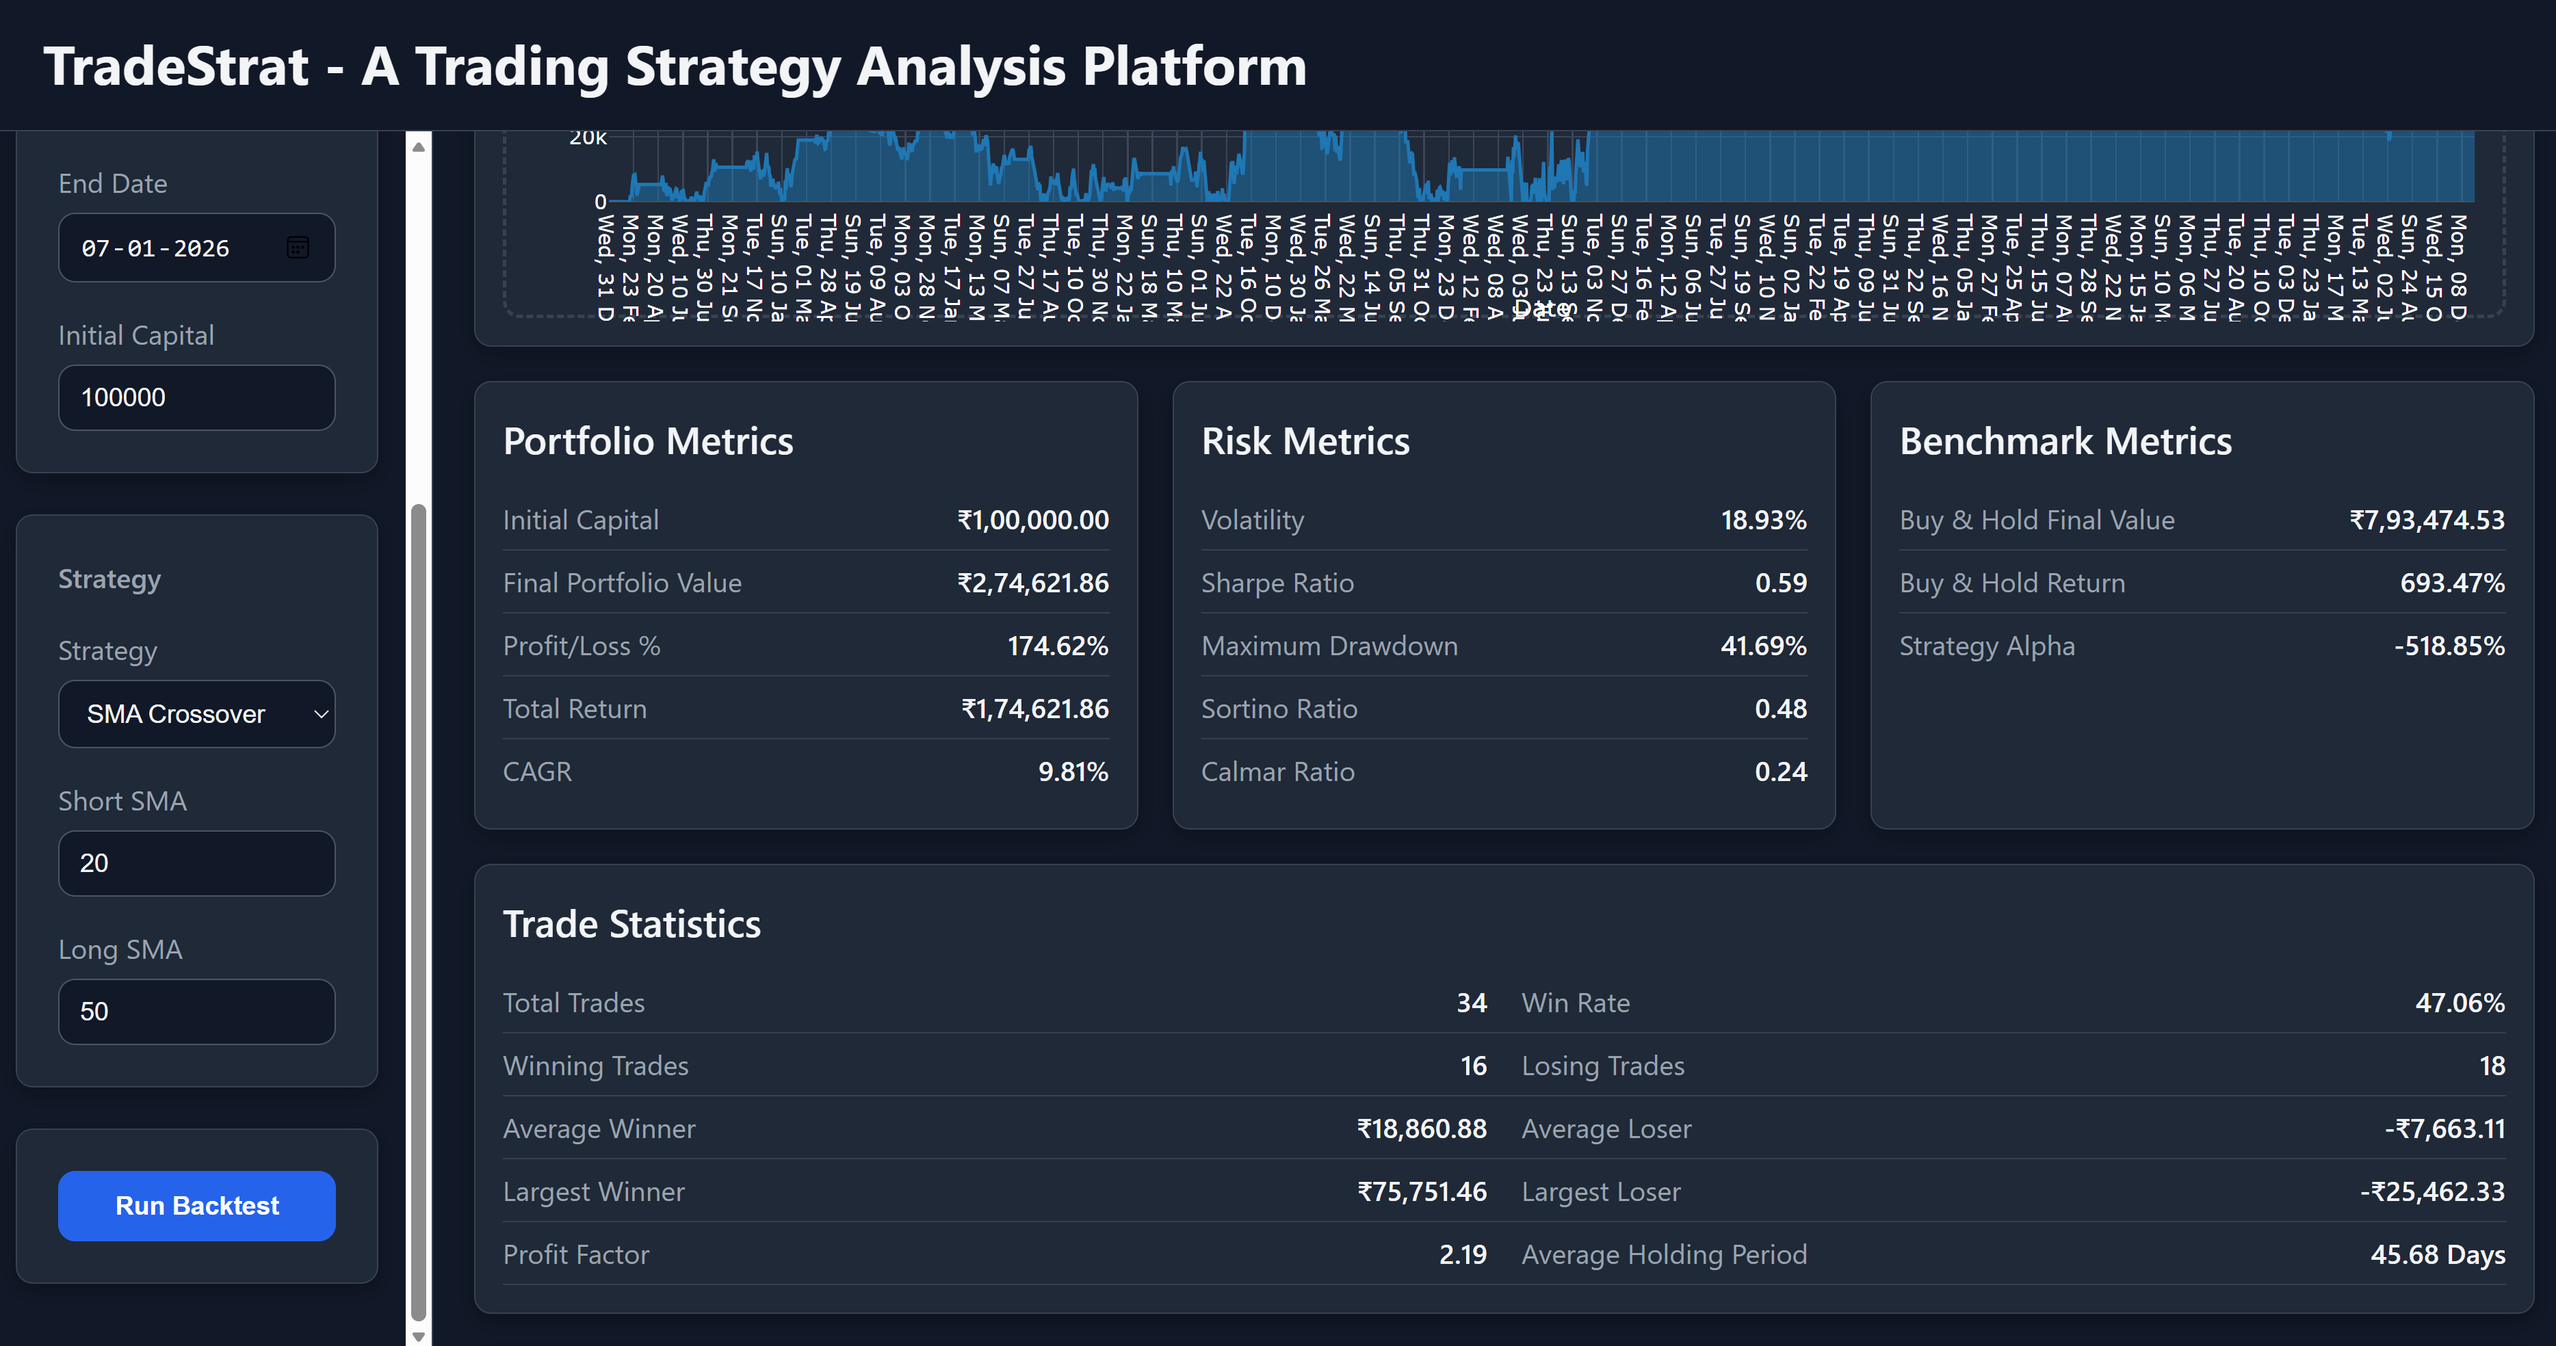
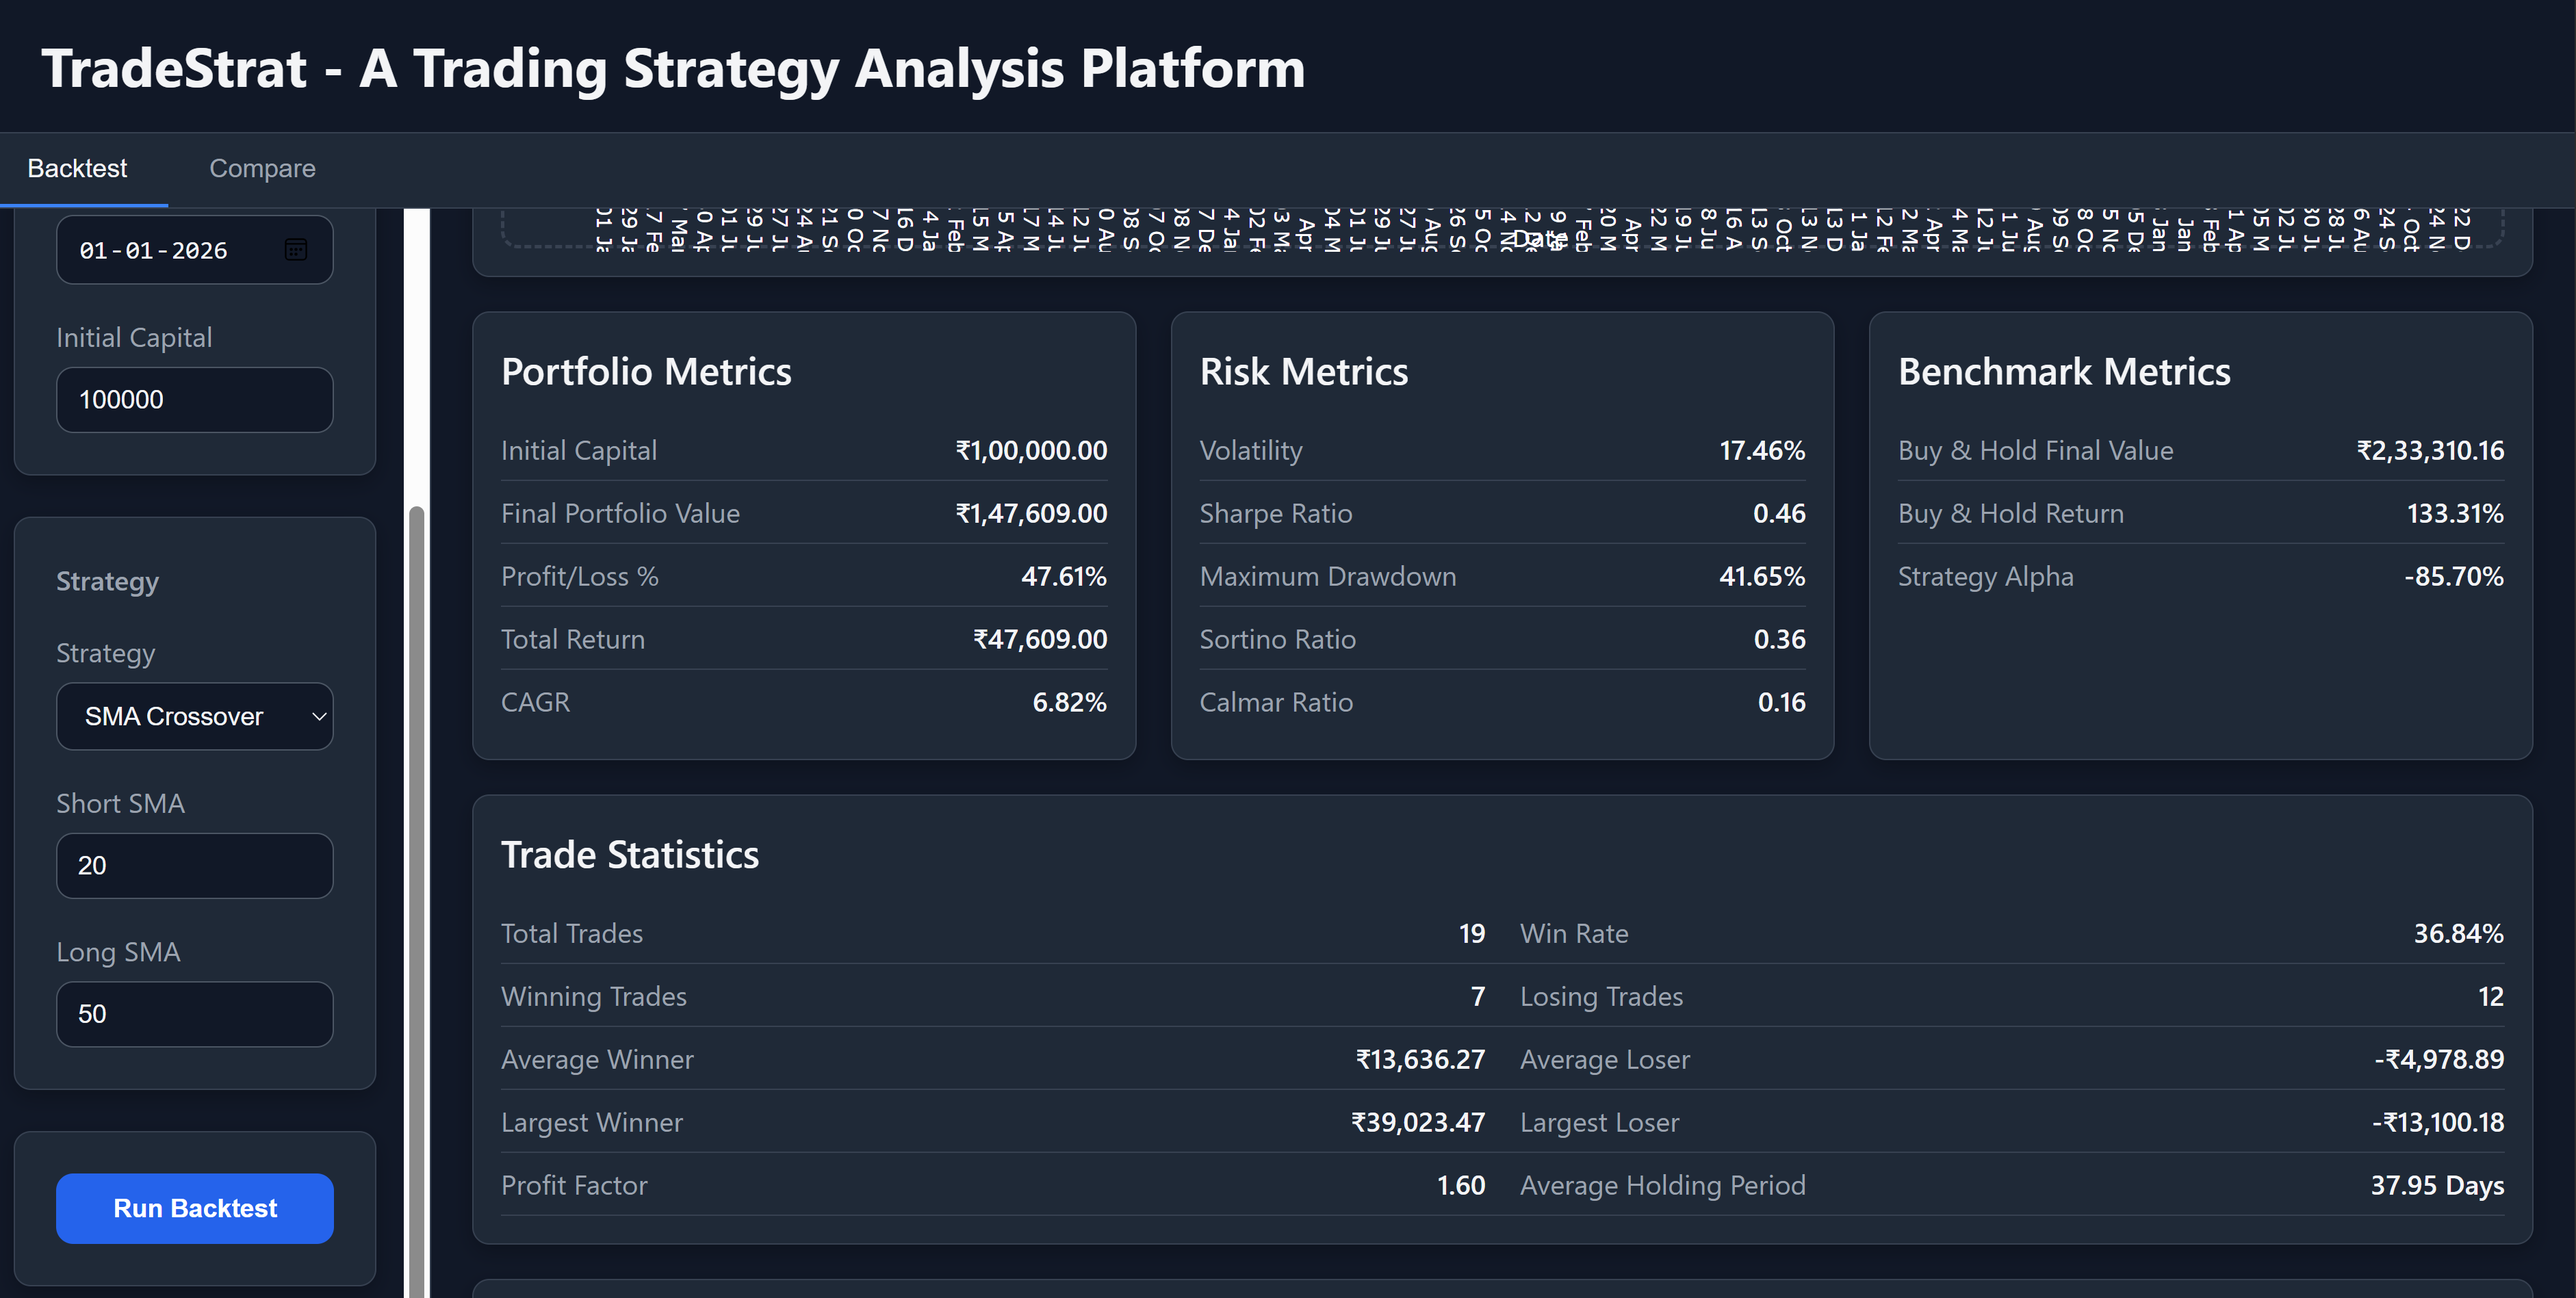
Update README and .gitignore

diff --git a/README.md b/README.md
@@ -4,28 +4,87 @@ A web-based modular trading strategy analysis platform for backtesting, portfoli
 
 ## Features
 
-- Historical market data download using Yahoo Finance
-- Market data validation and cleaning
-- Generic technical indicator engine
-- SMA crossover strategy
-- Portfolio simulation
-- Performance analytics
-- Risk metrics
-- Trade statistics
-- Interactive dashboard
-- Plotly visualizations
-- REST API
+- **Market Data** — Historical data download via Yahoo Finance with local SQLite caching
+- **Technical Indicators** — SMA, EMA, RSI, MACD with automatic warm-up period handling
+- **Trading Strategies** — SMA Crossover, EMA Crossover, MACD Crossover, RSI Mean Reversion
+- **Portfolio Simulation** — Full trade lifecycle simulation with configurable initial capital
+- **Performance Analytics** — Portfolio metrics, risk metrics, and trade statistics
+- **Benchmark Comparison** — Buy & Hold benchmark overlay with alpha calculation
+- **KPI Interpretation** — Color-coded KPI cards with interpretation levels and hover tooltips
+- **Strategy Comparison** — Run 2–6 strategies side-by-side with metrics matrix, equity/drawdown chart overlays, and per-strategy trade history tabs
+- **Interactive Dashboard** — Plotly charts (price, equity, drawdown), tabbed interface (Backtest / Compare), form persistence via localStorage
+- **REST API** — `POST /backtest` and `POST /compare` endpoints with JSON request/response
+
+## Architecture
+
+```mermaid
+graph TD
+    subgraph Frontend
+        UI[Dashboard · Compare Tab · Plotly Charts]
+    end
+
+    subgraph API[Flask API]
+        B[POST /backtest]
+        C[POST /compare]
+    end
+
+    subgraph Services
+        BS[Backtest Service]
+        CS[Comparison Service]
+    end
+
+    subgraph Engines[Core Engines]
+        IND[Indicators]
+        STR[Strategies]
+        SIM[Portfolio Simulator]
+        ANA[Analytics Engine]
+    end
+
+    subgraph Data[Data Layer]
+        DL[Yahoo Finance]
+        DB[(SQLite Cache)]
+    end
+
+    UI -->|REST| B
+    UI -->|REST| C
+    B --> BS
+    C --> CS
+    CS --> BS
+    BS --> IND
+    BS --> STR
+    BS --> SIM
+    BS --> ANA
+    BS --> DL
+    DL <--> DB
+```
 
 ## Screenshots
 
-<img src="images/image_1.png" alt="Alt text" width="600">
-<br><br>
-<img src="images/image_2.png" alt="Alt text" width="600">
-<br><br>
-<img src="images/image_3.png" alt="Alt text" width="600">
-<br><br>
-<img src="images/image_4.png" alt="Alt text" width="600">
-<br><br>
+### Backtest Tab
+
+<table>
+  <tr>
+    <td><img src="images/image_1.png" alt="Backtest Dashboard" width="450"></td>
+    <td><img src="images/image_2.png" alt="Backtest Charts" width="450"></td>
+  </tr>
+  <tr>
+    <td><img src="images/image_3.png" alt="Backtest Metrics" width="450"></td>
+    <td><img src="images/image_4.png" alt="Backtest Trade History" width="450"></td>
+  </tr>
+</table>
+
+### Compare Tab
+
+<table>
+  <tr>
+    <td><img src="images/image_5.png" alt="Compare Metrics Matrix" width="450"></td>
+    <td><img src="images/image_6.png" alt="Compare Equity Curves" width="450"></td>
+  </tr>
+  <tr>
+    <td><img src="images/image_7.png" alt="Compare Drawdown" width="450"></td>
+    <td><img src="images/image_8.png" alt="Compare Trade History" width="450"></td>
+  </tr>
+</table>
 
 ## Technology Stack
 
@@ -35,64 +94,77 @@ A web-based modular trading strategy analysis platform for backtesting, portfoli
 | **Frontend** | HTML5, CSS3, JavaScript |
 | **Data Processing** | Pandas, NumPy |
 | **Market Data** | Yahoo Finance (`yfinance`) |
+| **Database** | SQLite (local market data cache) |
 | **Data Visualization** | Plotly, Plotly.js |
 | **Testing** | pytest |
 
 
-## Version History
+## Development Changelog
 
-### Version 1.0
-Initial MVP release.
+### 2026-07-28 — Compare Tab Form Persistence
+- Added form persistence for the Compare tab via localStorage
 
-- Market Data Module
-- Indicator Engine
-- SMA indicator
-- Strategy Engine
-- SMA Crossover Strategy
-- Portfolio Simulator
-- Analytics Engine
-- Portfolio Metrics, Risk Metrics, Trade Metrics, Price Chart, Equity Chart, Drawdown Chart, Trade History
-- Backtest Service
-- REST API
-- Interactive Dashboard
+### 2026-07-27 — Strategy Comparison Tab
+- Added Strategy Comparison Tab for running 2–6 strategies side-by-side on the same ticker and date range
+- Comparison dashboard with metrics matrix (best-value highlighting), overlaid equity and drawdown charts, and per-strategy trade history tabs
+- Added `POST /compare` API endpoint with per-strategy error isolation
 
-### Version 1.1
-Expanded strategy support and technical analysis capabilities.
+### 2026-07-24 — Market Data Caching
+- Added local SQLite database for caching downloaded market data
+- Cache-first retrieval eliminates redundant Yahoo Finance API calls across repeated backtests
+- Automatic range merging consolidates overlapping cached date ranges
 
-- Added EMA, RSI and MACD indicators
-- Added trading strategies: EMA crossover, MACD Crossover, RSI Mean Reversion
-- Improved chart interaction: mouse-wheel zoom, drag to pan
-
-### Version 1.2
-Improved backtesting accuracy and overall user experience.
-
-- Added automatic indicator warm-up period for more accurate recursive indicator calculations
-- Added full-screen loading overlay during backtest execution
-- Added user-friendly error modal for frontend and backend validation errors
-
-### Version 1.3
-Enhanced backtesting analytics with benchmark comparison and extended risk metrics.
-
-- Added Buy & Hold benchmark comparison with passive equity curve overlay on the Equity Chart
-- Added Benchmark Metrics panel displaying Buy & Hold Final Value, Buy & Hold Return, and Strategy Alpha
-- Added Sortino Ratio and Calmar Ratio to Risk Metrics
-
-### Version 1.4
-Redesigned dashboard UI for compactness and practicality.
-
-- Compacted KPI cards with reduced padding and font sizes
-- Expanded KPI grid to 5 columns with Sortino Ratio and Alpha cards
-- Reordered KPI cards into Portfolio Performance and Risk & Context rows
-- Reduced chart heights and tightened section spacing across the dashboard
-- Narrowed control panel sidebar from 360px to 260px
-- Arranged Portfolio, Risk and Benchmark Metrics side-by-side in a 3-column layout
-- Restructured Trade Statistics into uniform paired rows for better space utilisation
-- Compacted metric rows and dashboard panel padding throughout
-
-### Version 1.5
-Added KPI Interpretation System with color-coded values and informational tooltips.
-
+### 2026-07-22 — Dashboard UI Overhaul & KPI Interpretation System
+- Redesigned dashboard layout: compacted KPI grid, 3-column metrics, narrower sidebar
 - Added backend KPI Interpreter module with dedicated `kpi_cards` response object
 - KPI values are now color-coded based on interpretation levels (Excellent, Good, Average, Poor)
 - Color coding applied to CAGR, Profit Factor, Sharpe Ratio, Sortino Ratio, Max Drawdown and Alpha
 - Added hover tooltips on each KPI card with metric explanations and interpretation ranges
+
+### 2026-07-20 — Benchmark Comparison & Extended Risk Metrics
+- Added Buy & Hold benchmark comparison with passive equity curve overlay on the Equity Chart
+- Added Benchmark Metrics panel displaying Buy & Hold Final Value, Buy & Hold Return, and Strategy Alpha
+- Added Sortino Ratio and Calmar Ratio to Risk Metrics
+
+### 2026-07-15 — Error Handling
+- Added user-friendly error modal for frontend and backend validation errors
+
+### 2026-07-14 — Loading Overlay
+- Added full-screen loading overlay during backtest execution
+
+### 2026-07-13 — RSI Strategy, Chart Interaction & Warm-up Fix
+- Added trading strategy: RSI Mean Reversion
+- Improved chart interaction: mouse-wheel zoom, drag to pan
+- Added automatic indicator warm-up period for more accurate recursive indicator calculations
+- Fixed bug where consecutive BUY/SELL signals generated via RSI Mean Reversion strategy were causing incorrect backtest results
+
+### 2026-07-12 — Indicators & Strategy Expansion
+- Added EMA, RSI and MACD indicators
+- Added trading strategies: EMA Crossover, MACD Crossover
+
+### 2026-07-10 — Frontend Dashboard
+- Created a dashboard for triggering backtests and viewing analytics results
+- Added interactive dashboard with Plotly charts (price, equity curve, drawdown) and trade history table
+- Strategy parameters are now dynamically rendered from a central registry
+
+### 2026-07-09 — Serialization Fix
+- Fixed a bug in JSON serialization of NaN values
+
+### 2026-07-08 — Backtest Service & API
+- Added backtest service layer for orchestration of the backtest workflow
+- Added `POST /backtest` REST API endpoint with JSON request/response
+
+### 2026-07-04 — Analytics Engine
+- Added Analytics Engine with portfolio metrics, risk metrics, and trade statistics
+
+### 2026-07-01 — Portfolio Simulator
+- Added Portfolio Simulator for trade lifecycle execution with configurable initial capital
+
+### 2026-07-01 — Data Module, Indicator Engine & Strategy Engine
+- Added Market Data module for downloading and cleaning historical stock data via Yahoo Finance
+- Added generic Indicator Engine with SMA indicator implementation
+- Added Strategy Engine with SMA Crossover strategy
+
+### 2026-06-30 — Project setup and initial commit
+- Added basic flask project structure and API blueprint
+- Added logging module
